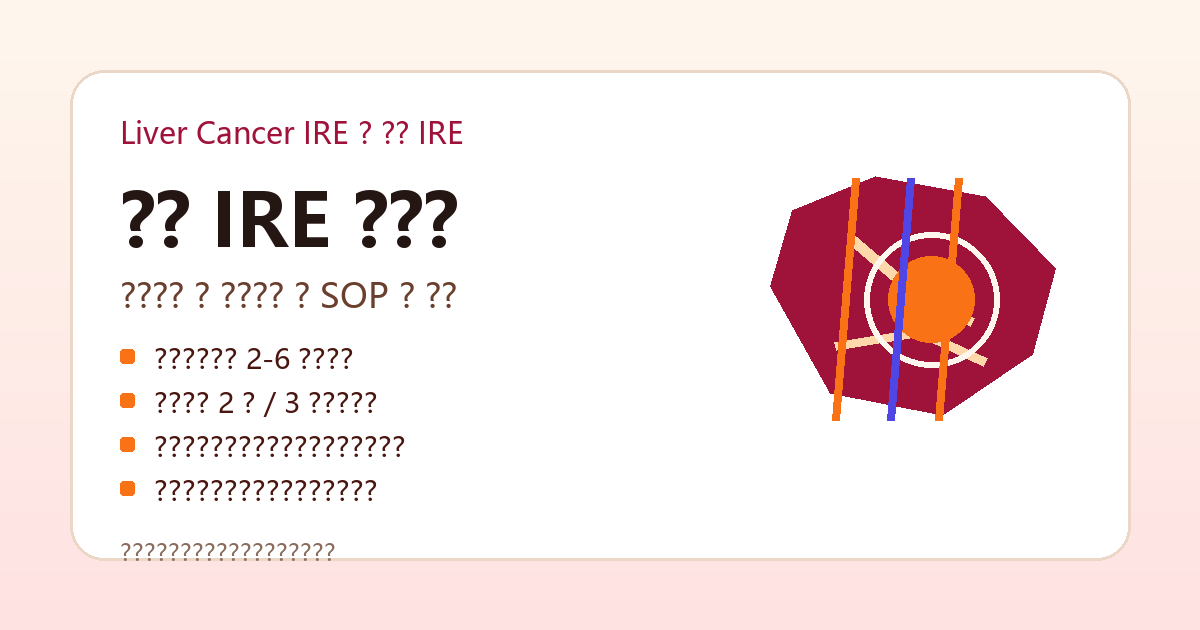
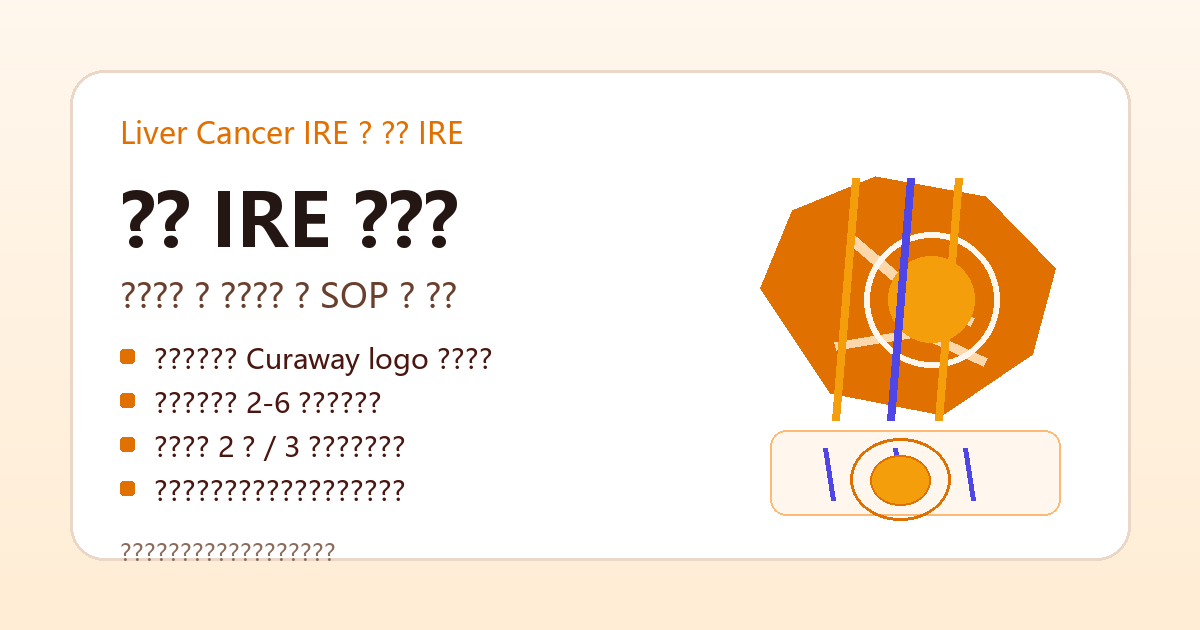
Use orange theme and add needle diagrams

diff --git a/index.html b/index.html
@@ -3,7 +3,7 @@
 <head>
   <meta charset="utf-8">
   <meta name="viewport" content="width=device-width, initial-scale=1, viewport-fit=cover">
-  <meta name="theme-color" content="#9f1239">
+  <meta name="theme-color" content="#e07000">
   <meta name="description" content="肝癌不可逆电穿孔消融治疗专家共识与临床实践指南知识库、考试题库与 SOP 操作流程 PWA。">
   <meta name="keywords" content="IRE, 肝癌, 肝脏恶性肿瘤, 纳米刀, 专家共识, 临床实践指南, SOP, 考试题库">
   <meta property="og:type" content="website">
@@ -37,15 +37,15 @@
       --ink: #241613;
       --muted: #715a50;
       --line: #ead7c8;
-      --teal: #9f1239;
-      --teal-2: #f97316;
+      --teal: #e07000;
+      --teal-2: #f59e0b;
       --blue: #4f46e5;
       --amber: #b45309;
-      --rose: #be123c;
+      --rose: #c2410c;
       --mint: #fee2e2;
       --sky: #ede9fe;
       --sand: #fef3c7;
-      --pink: #ffe4e6;
+      --pink: #ffedd5;
       --shadow: 0 10px 28px rgba(75, 34, 18, .08);
       --radius: 8px;
       font-family: "Microsoft YaHei", "PingFang SC", system-ui, -apple-system, Segoe UI, sans-serif;
@@ -116,8 +116,8 @@
       height: 42px;
       border-radius: var(--radius);
       color: white;
-      background: linear-gradient(135deg, #9f1239, #f97316);
-      box-shadow: 0 10px 24px rgba(159, 18, 57, .24);
+      background: linear-gradient(135deg, #e07000, #f59e0b);
+      box-shadow: 0 10px 24px rgba(224, 112, 0, .24);
     }
 
     .brand-mark svg,
@@ -204,7 +204,7 @@
     .primary-btn {
       color: white;
       background: var(--teal);
-      box-shadow: 0 10px 22px rgba(159, 18, 57, .18);
+      box-shadow: 0 10px 22px rgba(224, 112, 0, .18);
     }
 
     .ghost-btn,
@@ -248,7 +248,7 @@
 
     .side a:hover,
     .side a.active {
-      background: #fff1f2;
+      background: #fff7ed;
       color: var(--teal);
     }
 
@@ -321,8 +321,8 @@
       padding: clamp(20px, 5vw, 46px);
       overflow: hidden;
       background:
-        linear-gradient(135deg, rgba(127, 29, 29, .94), rgba(180, 83, 9, .9) 52%, rgba(76, 29, 149, .86)),
-        #7f1d1d;
+        linear-gradient(135deg, rgba(194, 86, 0, .96), rgba(245, 158, 11, .9) 58%, rgba(79, 70, 229, .72)),
+        #e07000;
       border-radius: var(--radius);
       box-shadow: var(--shadow);
     }
@@ -547,8 +547,8 @@
       min-height: 26px;
       padding: 5px 8px;
       margin-bottom: 10px;
-      color: #9f1239;
-      background: #ffe4e6;
+      color: #b45309;
+      background: #ffedd5;
       border-radius: 999px;
       font-size: 12px;
       font-weight: 800;
@@ -556,7 +556,7 @@
 
     .tag.strong { color: #4c1d95; background: #ede9fe; }
     .tag.warn { color: #92400e; background: #fef3c7; }
-    .tag.danger { color: #9f1239; background: #ffe4e6; }
+    .tag.danger { color: #9a3412; background: #fed7aa; }
 
     .en-line {
       display: block;
@@ -573,8 +573,8 @@
     .lang-toggle {
       min-width: 72px;
       color: var(--teal);
-      background: #fff1f2;
-      border-color: #fecdd3;
+      background: #fff7ed;
+      border-color: #fed7aa;
       font-weight: 800;
     }
 
@@ -681,8 +681,8 @@
       place-items: center;
       width: 42px;
       height: 42px;
-      color: #9f1239;
-      background: #ffe4e6;
+      color: #b45309;
+      background: #ffedd5;
       border-radius: var(--radius);
       font-size: 13px;
     }
@@ -780,7 +780,7 @@
       margin-bottom: 10px;
       background: var(--teal);
       border-radius: 50%;
-      box-shadow: 0 0 0 5px #ffe4e6;
+      box-shadow: 0 0 0 5px #ffedd5;
     }
 
     .timeline-step time,
@@ -950,6 +950,59 @@
       font-size: 14px;
     }
 
+    .needle-svg {
+      display: block;
+      width: 100%;
+      max-width: 220px;
+      margin: 0 auto 12px;
+      aspect-ratio: 1 / 1;
+    }
+
+    .needle-svg .liver-shape {
+      fill: #fff7ed;
+      stroke: #fdba74;
+      stroke-width: 2;
+    }
+
+    .needle-svg .tumor {
+      fill: #fb923c;
+      stroke: #ea580c;
+      stroke-width: 2;
+    }
+
+    .needle-svg .margin {
+      fill: none;
+      stroke: #e07000;
+      stroke-width: 2;
+      stroke-dasharray: 6 5;
+    }
+
+    .needle-svg .needle-line {
+      stroke: #4f46e5;
+      stroke-width: 5;
+      stroke-linecap: round;
+    }
+
+    .needle-svg .field-zone {
+      fill: rgba(245, 158, 11, .18);
+      stroke: rgba(224, 112, 0, .65);
+      stroke-width: 1.5;
+    }
+
+    .needle-svg .vessel {
+      fill: none;
+      stroke: #64748b;
+      stroke-width: 5;
+      stroke-linecap: round;
+    }
+
+    .needle-svg text {
+      fill: #6b3f2d;
+      font-size: 11px;
+      font-weight: 800;
+      font-family: "Microsoft YaHei", Arial, sans-serif;
+    }
+
     .source-pill {
       display: inline-flex;
       width: fit-content;
@@ -957,7 +1010,7 @@
       align-items: center;
       padding: 4px 8px;
       margin-bottom: 8px;
-      color: #7f1d1d;
+      color: #9a3412;
       background: #ffedd5;
       border-radius: 999px;
       font-size: 12px;
@@ -1011,7 +1064,7 @@
       width: 42px;
       height: 42px;
       color: var(--teal);
-      background: #ffe4e6;
+      background: #ffedd5;
       border-radius: var(--radius);
     }
 
@@ -1068,8 +1121,8 @@
     }
 
     .answer.selected {
-      color: #9f1239;
-      background: #ffe4e6;
+      color: #b45309;
+      background: #ffedd5;
       border-color: #5eead4;
     }
 
@@ -1080,8 +1133,8 @@
     }
 
     .answer.wrong {
-      color: #9f1239;
-      background: #ffe4e6;
+      color: #b45309;
+      background: #ffedd5;
       border-color: #fda4af;
     }
 
@@ -1097,8 +1150,8 @@
       align-items: center;
       min-height: 28px;
       padding: 5px 9px;
-      color: #9f1239;
-      background: #ffe4e6;
+      color: #b45309;
+      background: #ffedd5;
       border-radius: 999px;
       font-size: 12px;
       font-weight: 800;
@@ -1220,7 +1273,7 @@
 
     .bottom-nav a.active {
       color: var(--teal);
-      background: #fff1f2;
+      background: #fff7ed;
       font-weight: 800;
     }
 
@@ -1471,7 +1524,7 @@
         width: 8px;
         height: 8px;
         margin-bottom: 8px;
-        box-shadow: 0 0 0 4px #ffe4e6;
+        box-shadow: 0 0 0 4px #ffedd5;
       }
 
       .timeline-step p {
@@ -1580,7 +1633,7 @@
                 <path d="M103 78c10 25 28 40 56 48 20 6 35 16 46 31" stroke="#8bd7ce" stroke-width="8" fill="none" stroke-linecap="round"></path>
                 <path d="M81 150c25-9 48-7 69 8" stroke="#8bd7ce" stroke-width="7" fill="none" stroke-linecap="round"></path>
                 <circle cx="137" cy="132" r="31" fill="#fb923c" opacity=".92"></circle>
-                <circle cx="137" cy="132" r="49" fill="none" stroke="#9f1239" stroke-width="5" stroke-dasharray="8 8"></circle>
+                <circle cx="137" cy="132" r="49" fill="none" stroke="#e07000" stroke-width="5" stroke-dasharray="8 8"></circle>
                 <path d="M111 48v169M139 55v158M166 67v129" stroke="#f97316" stroke-width="6" stroke-linecap="round"></path>
                 <path d="M64 99c20 4 37 12 51 25" stroke="#4f46e5" stroke-width="8" stroke-linecap="round" fill="none"></path>
               </svg>
@@ -2108,27 +2161,27 @@
 
     const needleData = {
       sizePlans: [
-        { source: "2022 共识", title: "D <= 2 cm", enTitle: "D <= 2 cm", body: "建议 2-3 支电极针。病灶较小时可用 2 针平行置于病灶两侧，以无接触肿瘤方式整体消融。", enBody: "Use 2-3 electrodes. For small tumors, two parallel electrodes can be placed on both sides of the lesion without directly puncturing the tumor." },
-        { source: "2022 共识", title: "2 cm < D <= 3 cm", enTitle: "2 cm < D <= 3 cm", body: "建议 3-4 支；如病灶周围结构复杂、穿刺风险较高，可考虑 2 支电极针并分次/移动消融。", enBody: "Use 3-4 electrodes; if surrounding anatomy is complex or puncture risk is high, consider two electrodes with staged or repositioned ablation." },
-        { source: "2022 共识", title: "3 cm < D <= 4 cm", enTitle: "3 cm < D <= 4 cm", body: "建议 3-5 支电极针，沿病灶长轴和形态设计，必要时退针继续消融。", enBody: "Use 3-5 electrodes, planned along the long axis and tumor shape; pull-back ablation may be needed." },
-        { source: "2022 共识", title: "4 cm < D <= 5 cm", enTitle: "4 cm < D <= 5 cm", body: "建议 4-6 支电极针，需严格控制重叠消融范围，同一区域尽量不超过 3 次。", enBody: "Use 4-6 electrodes. Avoid excessive overlap and keep repeat ablations in the same region to no more than three whenever possible." }
+        { source: "2022 共识", diagram: "two", title: "D <= 2 cm", enTitle: "D <= 2 cm", body: "建议 2-3 支电极针。病灶较小时可用 2 针平行置于病灶两侧，以无接触肿瘤方式整体消融。", enBody: "Use 2-3 electrodes. For small tumors, two parallel electrodes can be placed on both sides of the lesion without directly puncturing the tumor." },
+        { source: "2022 共识", diagram: "three", title: "2 cm < D <= 3 cm", enTitle: "2 cm < D <= 3 cm", body: "建议 3-4 支；如病灶周围结构复杂、穿刺风险较高，可考虑 2 支电极针并分次/移动消融。", enBody: "Use 3-4 electrodes; if surrounding anatomy is complex or puncture risk is high, consider two electrodes with staged or repositioned ablation." },
+        { source: "2022 共识", diagram: "five", title: "3 cm < D <= 4 cm", enTitle: "3 cm < D <= 4 cm", body: "建议 3-5 支电极针，沿病灶长轴和形态设计，必要时退针继续消融。", enBody: "Use 3-5 electrodes, planned along the long axis and tumor shape; pull-back ablation may be needed." },
+        { source: "2022 共识", diagram: "six", title: "4 cm < D <= 5 cm", enTitle: "4 cm < D <= 5 cm", body: "建议 4-6 支电极针，需严格控制重叠消融范围，同一区域尽量不超过 3 次。", enBody: "Use 4-6 electrodes. Avoid excessive overlap and keep repeat ablations in the same region to no more than three whenever possible." }
       ],
       rules: [
-        { source: "2022 共识", title: "有效针距", enTitle: "Effective spacing", body: "电极针之间有效消融间距建议 1.5-2.2 cm，至少保证两两平行，使消融范围覆盖病灶并超过边缘约 0.5 cm。", enBody: "Recommended effective spacing is 1.5-2.2 cm. Keep paired electrodes parallel and cover the lesion plus about 0.5 cm margin." },
-        { source: "2023 指南", title: "超声引导 2-3 针为主", enTitle: "US guidance usually uses 2-3 needles", body: "超声视野和肋间隙限制下，多选择 2-3 根电极针；2 针适合最大径 <= 2 cm，3 针适合 > 2 cm 病灶组合覆盖。", enBody: "Under ultrasound guidance, 2-3 electrodes are commonly used. Two needles fit lesions <= 2 cm; three needles combine paired ablation zones for lesions > 2 cm." },
-        { source: "2023 指南", title: "2 针方案", enTitle: "Two-needle strategy", body: "2 针平行布于病灶两侧，也可通过移动两根针的位置扩大消融范围。", enBody: "Place two parallel electrodes on both sides of the lesion; moving both needles can enlarge the ablation zone." },
-        { source: "2023 指南", title: "3 针方案", enTitle: "Three-needle strategy", body: "3 针之间两两形成消融区域，组合覆盖较大病灶；也可移动第 3 根针调整消融范围。", enBody: "Three needles create paired ablation zones that combine to cover larger lesions; the third needle can be repositioned to reshape coverage." },
-        { source: "2022 共识", title: "不规则病灶", enTitle: "Irregular lesions", body: "尽量避开其他脏器及血管，沿病灶长轴布针；一次消融后可退针继续，但重叠消融不宜过大。", enBody: "Avoid adjacent organs and vessels, place electrodes along the long axis, and use pull-back ablation with limited overlap." },
-        { source: "2022 共识", title: "重要结构旁", enTitle: "Near critical structures", body: "靠近血管、胆囊、肠管时，避免针尖垂直接触重要结构；避免电极针紧贴血管壁，以减少机械或热损伤。", enBody: "Near vessels, gallbladder, or bowel, avoid perpendicular contact with critical structures and avoid placing electrodes tightly against vessel walls." },
-        { source: "2022 共识", title: "CT 引导", enTitle: "CT guidance", body: "CT 下可用三维重建明确病灶、脏器和消融针关系；穿刺采用“步进式”进针，避免穿过胸腔造成肺损伤。", enBody: "CT allows 3D planning; use stepwise advancement and avoid transpleural routes when possible." },
-        { source: "2022/2023", title: "超声与辅助技术", enTitle: "Ultrasound and adjuncts", body: "超声可实时监测角度和深度；显示不清或膈顶部病灶可用人工液腹/液胸、融合导航和超声造影辅助。", enBody: "Ultrasound offers real-time needle tracking; artificial ascites/pleural effusion, fusion navigation, and CEUS can assist difficult lesions." }
+        { source: "2022 共识", diagram: "spacing", title: "有效针距", enTitle: "Effective spacing", body: "电极针之间有效消融间距建议 1.5-2.2 cm，至少保证两两平行，使消融范围覆盖病灶并超过边缘约 0.5 cm。", enBody: "Recommended effective spacing is 1.5-2.2 cm. Keep paired electrodes parallel and cover the lesion plus about 0.5 cm margin." },
+        { source: "2023 指南", diagram: "three", title: "超声引导 2-3 针为主", enTitle: "US guidance usually uses 2-3 needles", body: "超声视野和肋间隙限制下，多选择 2-3 根电极针；2 针适合最大径 <= 2 cm，3 针适合 > 2 cm 病灶组合覆盖。", enBody: "Under ultrasound guidance, 2-3 electrodes are commonly used. Two needles fit lesions <= 2 cm; three needles combine paired ablation zones for lesions > 2 cm." },
+        { source: "2023 指南", diagram: "two", title: "2 针方案", enTitle: "Two-needle strategy", body: "2 针平行布于病灶两侧，也可通过移动两根针的位置扩大消融范围。", enBody: "Place two parallel electrodes on both sides of the lesion; moving both needles can enlarge the ablation zone." },
+        { source: "2023 指南", diagram: "three", title: "3 针方案", enTitle: "Three-needle strategy", body: "3 针之间两两形成消融区域，组合覆盖较大病灶；也可移动第 3 根针调整消融范围。", enBody: "Three needles create paired ablation zones that combine to cover larger lesions; the third needle can be repositioned to reshape coverage." },
+        { source: "2022 共识", diagram: "longAxis", title: "不规则病灶", enTitle: "Irregular lesions", body: "尽量避开其他脏器及血管，沿病灶长轴布针；一次消融后可退针继续，但重叠消融不宜过大。", enBody: "Avoid adjacent organs and vessels, place electrodes along the long axis, and use pull-back ablation with limited overlap." },
+        { source: "2022 共识", diagram: "critical", title: "重要结构旁", enTitle: "Near critical structures", body: "靠近血管、胆囊、肠管时，避免针尖垂直接触重要结构；避免电极针紧贴血管壁，以减少机械或热损伤。", enBody: "Near vessels, gallbladder, or bowel, avoid perpendicular contact with critical structures and avoid placing electrodes tightly against vessel walls." },
+        { source: "2022 共识", diagram: "step", title: "CT 引导", enTitle: "CT guidance", body: "CT 下可用三维重建明确病灶、脏器和消融针关系；穿刺采用“步进式”进针，避免穿过胸腔造成肺损伤。", enBody: "CT allows 3D planning; use stepwise advancement and avoid transpleural routes when possible." },
+        { source: "2022/2023", diagram: "adjunct", title: "超声与辅助技术", enTitle: "Ultrasound and adjuncts", body: "超声可实时监测角度和深度；显示不清或膈顶部病灶可用人工液腹/液胸、融合导航和超声造影辅助。", enBody: "Ultrasound offers real-time needle tracking; artificial ascites/pleural effusion, fusion navigation, and CEUS can assist difficult lesions." }
       ],
       parameters: [
-        { title: "裸露段", enTitle: "Exposure", body: "常用 1.5-2.0 cm；肝门部脉管丰富、结构不均匀时建议 1.5 cm。", enBody: "Usually 1.5-2.0 cm; use 1.5 cm near the hepatic hilum." },
-        { title: "电场强度", enTitle: "Field strength", body: "共识多选 1500-2800 V/cm；超声指南按 NanoKnife 示例为 1000-3000 V/cm。", enBody: "Consensus: often 1500-2800 V/cm; ultrasound guideline example: 1000-3000 V/cm." },
-        { title: "针间距", enTitle: "Needle spacing", body: "共识有效间距 1.5-2.2 cm；超声指南示例 1.2-2.4 cm。", enBody: "Consensus: 1.5-2.2 cm effective spacing; US guideline example: 1.2-2.4 cm." },
-        { title: "脉宽/脉冲数", enTitle: "Pulse width/count", body: "脉宽 70-90 μs；脉冲数约 70-100 个，超声指南示例 70-90 个。", enBody: "Pulse width 70-90 μs; pulse count about 70-100, with 70-90 in the US guideline example." },
-        { title: "测试电流", enTitle: "Test current", body: "先测 10-20 个脉冲；共识提示 25-45 A 且逐渐上升较合理，超声指南提示正式消融后 30-50 A。", enBody: "Test with 10-20 pulses; consensus suggests 25-45 A with an increasing trend, while the US guideline cites 30-50 A during formal ablation." }
+        { diagram: "exposure", title: "裸露段", enTitle: "Exposure", body: "常用 1.5-2.0 cm；肝门部脉管丰富、结构不均匀时建议 1.5 cm。", enBody: "Usually 1.5-2.0 cm; use 1.5 cm near the hepatic hilum." },
+        { diagram: "field", title: "电场强度", enTitle: "Field strength", body: "共识多选 1500-2800 V/cm；超声指南按 NanoKnife 示例为 1000-3000 V/cm。", enBody: "Consensus: often 1500-2800 V/cm; ultrasound guideline example: 1000-3000 V/cm." },
+        { diagram: "spacing", title: "针间距", enTitle: "Needle spacing", body: "共识有效间距 1.5-2.2 cm；超声指南示例 1.2-2.4 cm。", enBody: "Consensus: 1.5-2.2 cm effective spacing; US guideline example: 1.2-2.4 cm." },
+        { diagram: "pulse", title: "脉宽/脉冲数", enTitle: "Pulse width/count", body: "脉宽 70-90 μs；脉冲数约 70-100 个，超声指南示例 70-90 个。", enBody: "Pulse width 70-90 μs; pulse count about 70-100, with 70-90 in the US guideline example." },
+        { diagram: "current", title: "测试电流", enTitle: "Test current", body: "先测 10-20 个脉冲；共识提示 25-45 A 且逐渐上升较合理，超声指南提示正式消融后 30-50 A。", enBody: "Test with 10-20 pulses; consensus suggests 25-45 A with an increasing trend, while the US guideline cites 30-50 A during formal ablation." }
       ]
     };
 
@@ -2372,6 +2425,55 @@
       `).join("");
     }
 
+    function needleSvg(type = "two") {
+      const patterns = {
+        two: { pins: [[74, 52], [126, 52]], zones: [[100, 90, 44, 64]], label: "2 needles" },
+        three: { pins: [[68, 58], [132, 58], [100, 128]], zones: [[100, 88, 58, 68]], label: "3 needles" },
+        five: { pins: [[70, 48], [130, 48], [58, 112], [142, 112], [100, 148]], zones: [[100, 98, 72, 82]], label: "3-5 needles" },
+        six: { pins: [[62, 46], [100, 36], [138, 46], [58, 126], [100, 154], [142, 126]], zones: [[100, 96, 82, 94]], label: "4-6 needles" },
+        spacing: { pins: [[76, 60], [124, 60]], zones: [[100, 95, 45, 72]], label: "1.5-2.2 cm", measure: true },
+        longAxis: { pins: [[72, 38], [102, 50], [132, 62]], zones: [[100, 98, 70, 46]], label: "long axis", long: true },
+        critical: { pins: [[74, 56], [126, 56]], zones: [[100, 94, 48, 64]], label: "avoid vessel", vessel: true },
+        step: { pins: [[70, 42], [92, 70], [114, 98], [136, 126]], zones: [[104, 94, 54, 64]], label: "stepwise", step: true },
+        adjunct: { pins: [[72, 58], [128, 58], [100, 126]], zones: [[100, 90, 58, 66]], label: "US + fusion", adjunct: true },
+        exposure: { pins: [[88, 42], [112, 42]], zones: [[100, 92, 34, 70]], label: "1.5-2.0 cm", exposure: true },
+        field: { pins: [[76, 58], [124, 58]], zones: [[100, 94, 48, 68]], label: "V/cm", field: true },
+        pulse: { pins: [[76, 58], [124, 58]], zones: [[100, 94, 48, 68]], label: "70-90 μs", pulse: true },
+        current: { pins: [[76, 58], [124, 58]], zones: [[100, 94, 48, 68]], label: "A", current: true }
+      };
+      const p = patterns[type] || patterns.two;
+      const needleLines = p.pins.map(([x, y], index) => {
+        const x2 = p.long ? x + 22 : p.step ? x + 22 : x + 8;
+        const y2 = p.long ? y + 104 : p.step ? y + 34 : y + 104;
+        return `<line class="needle-line" x1="${x}" y1="${y}" x2="${x2}" y2="${y2}"></line><text x="${x - 7}" y="${y - 8}">N${index + 1}</text>`;
+      }).join("");
+      const zones = p.zones.map(([cx, cy, rx, ry]) => `<ellipse class="field-zone" cx="${cx}" cy="${cy}" rx="${rx}" ry="${ry}"></ellipse>`).join("");
+      const measure = p.measure ? '<line x1="80" y1="42" x2="128" y2="42" stroke="#e07000" stroke-width="2"></line><text x="73" y="34">1.5-2.2 cm</text>' : "";
+      const vessel = p.vessel ? '<path class="vessel" d="M42 128 C75 106 105 126 156 101"></path><text x="33" y="150">vessel / bile duct</text>' : "";
+      const adjunct = p.adjunct ? '<path d="M45 54 C69 38 126 32 158 52" fill="none" stroke="#4f46e5" stroke-width="2" stroke-dasharray="4 4"></path><text x="44" y="40">fusion / CEUS</text>' : "";
+      const exposure = p.exposure ? '<line x1="92" y1="72" x2="100" y2="132" stroke="#f59e0b" stroke-width="9" stroke-linecap="round"></line><text x="62" y="160">exposed tip</text>' : "";
+      const pulseBits = p.pulse ? '<path d="M82 92 h12 l-7 13 h13 l-15 24" fill="none" stroke="#e07000" stroke-width="3" stroke-linejoin="round"></path><path d="M114 92 h12 l-7 13 h13 l-15 24" fill="none" stroke="#e07000" stroke-width="3" stroke-linejoin="round"></path>' : "";
+      const current = p.current ? '<path d="M68 136 C88 116 108 150 130 128" fill="none" stroke="#e07000" stroke-width="3"></path><text x="62" y="158">25-50 A</text>' : "";
+      const field = p.field ? '<path d="M74 118 C92 76 112 76 130 118" fill="none" stroke="#e07000" stroke-width="3"></path><text x="67" y="153">electric field</text>' : "";
+      return `
+        <svg class="needle-svg" viewBox="0 0 200 200" role="img" aria-label="Needle placement diagram">
+          <path class="liver-shape" d="M38 100c0-42 36-66 78-64 34 2 58 15 70 39 10 20 5 49-14 68-27 27-77 34-109 12-17-12-25-31-25-55Z"></path>
+          ${zones}
+          <ellipse class="margin" cx="100" cy="96" rx="50" ry="55"></ellipse>
+          <ellipse class="tumor" cx="100" cy="96" rx="28" ry="31"></ellipse>
+          ${vessel}
+          ${adjunct}
+          ${measure}
+          ${exposure}
+          ${field}
+          ${pulseBits}
+          ${current}
+          ${needleLines}
+          <text x="48" y="188">${p.label}</text>
+        </svg>
+      `;
+    }
+
     function renderNeedlePlans() {
       const wrap = document.getElementById("needlePlans");
       if (!wrap) return;
@@ -2380,6 +2482,7 @@
           ${needleData.sizePlans.map(item => `
             <article class="needle-plan-card searchable" data-text="${item.source} ${item.title} ${item.body} ${item.enTitle} ${item.enBody}">
               <span class="source-pill">${item.source}</span>
+              ${needleSvg(item.diagram)}
               <strong>${item.title}${bi(item.enTitle)}</strong>
               <span>${item.body}${bi(item.enBody)}</span>
             </article>
@@ -2389,6 +2492,7 @@
           ${needleData.rules.map(item => `
             <article class="needle-rule-card searchable" data-text="${item.source} ${item.title} ${item.body} ${item.enTitle} ${item.enBody}">
               <span class="source-pill">${item.source}</span>
+              ${needleSvg(item.diagram)}
               <strong>${item.title}${bi(item.enTitle)}</strong>
               <span>${item.body}${bi(item.enBody)}</span>
             </article>
@@ -2398,6 +2502,7 @@
           ${needleData.parameters.map(item => `
             <article class="needle-param-card searchable" data-text="${item.title} ${item.body} ${item.enTitle} ${item.enBody}">
               <span class="source-pill">参数 / Parameters</span>
+              ${needleSvg(item.diagram)}
               <strong>${item.title}${bi(item.enTitle)}</strong>
               <span>${item.body}${bi(item.enBody)}</span>
             </article>

diff --git a/service-worker.js b/service-worker.js
@@ -1,4 +1,4 @@
-const CACHE_NAME = "liver-ire-consensus-pwa-v2";
+const CACHE_NAME = "liver-ire-consensus-pwa-v3";
 const CORE_ASSETS = [
   "./",
   "./index.html",
